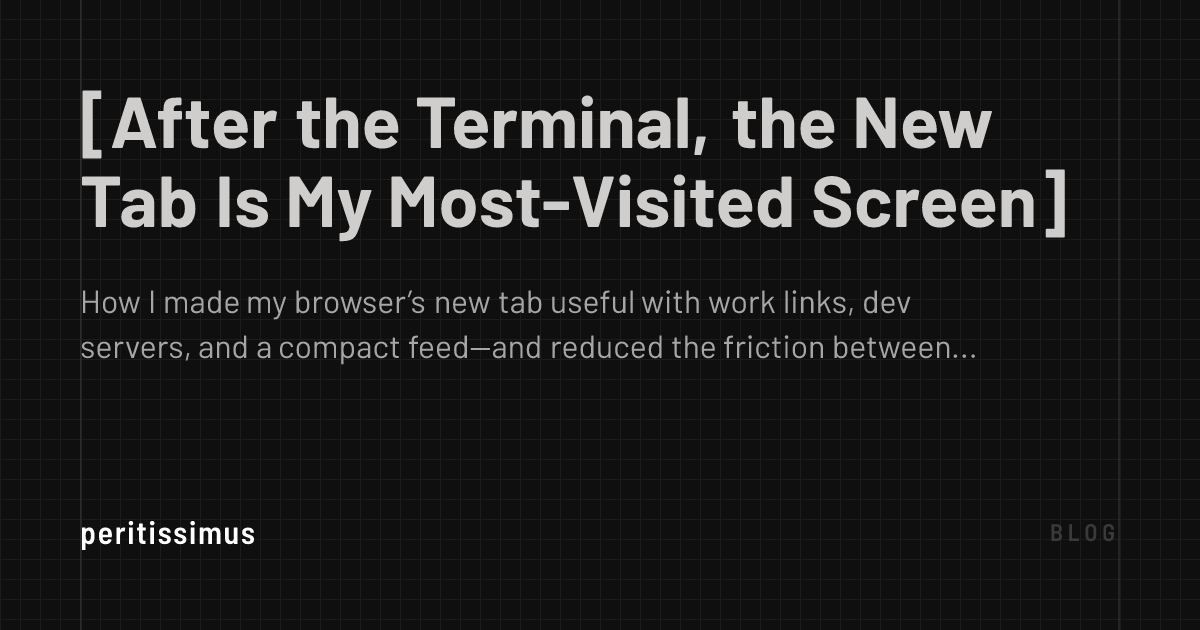
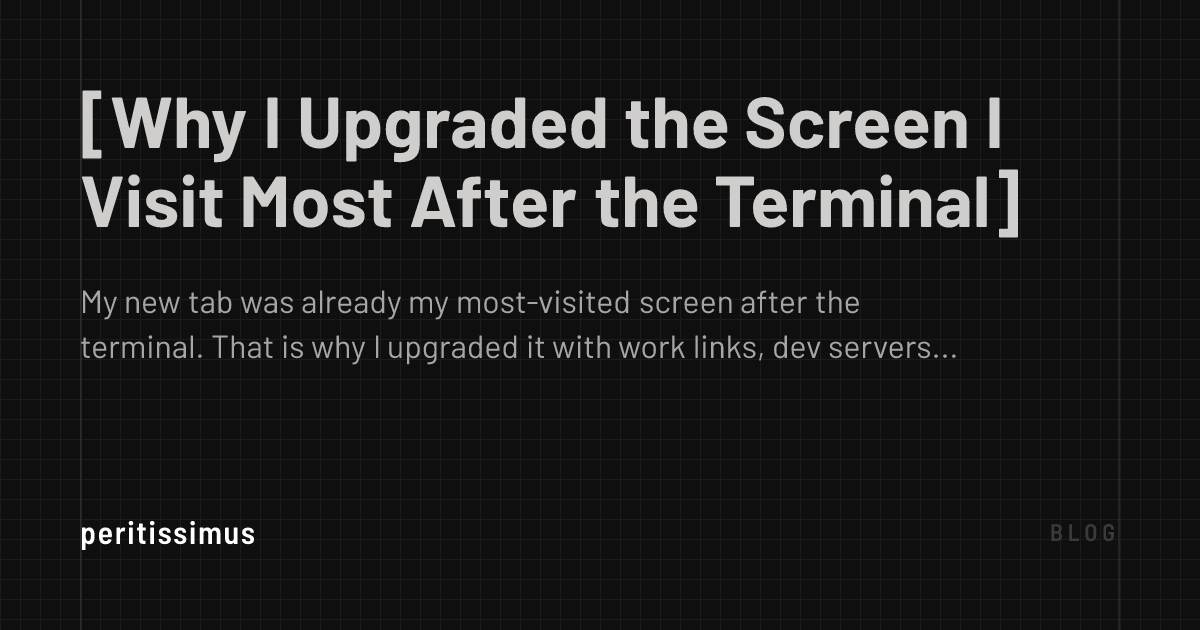
Clarify existing new-tab habit motivated the upgrade

Changed region(s): [[0.0617, 0.1508, 0.8942, 0.3921], [0.0617, 0.4524, 0.8017, 0.573]]

diff --git a/src/content/blog/new-tab-productivity.md b/src/content/blog/new-tab-productivity.md
@@ -1,16 +1,16 @@
 ---
-title: 'After the Terminal, the New Tab Is My Most-Visited Screen'
+title: 'Why I Upgraded the Screen I Visit Most After the Terminal'
 date: 2026-10-13
 author: Kushal Patankar
 category: Personal Software
 tags: [Personal Software, Developer Productivity, Browser Extensions, Tabbit]
-description: How I made my browser’s new tab useful with work links, dev servers, and a compact feed—and reduced the friction between tasks.
+description: My new tab was already my most-visited screen after the terminal. That is why I upgraded it with work links, dev servers, and a compact feed.
 readTime: 5 min read
 ---
 
-After the terminal, the browser’s new tab is the screen I visit most. That is my experience of the working day, not a number from a screen-time report. I open it to find a pull request, return to an internal tool, check a local app, or look something up before going back to code.
+The browser’s new tab was already my most-visited screen after the terminal. That is why I decided to upgrade it. I was opening it throughout the day to find a pull request, return to an internal tool, check a local app, or look something up before going back to code.
 
-For a screen I encounter so often, I had given very little thought to what should be on it.
+The habit was already there. I wanted the screen to serve that habit better: put useful things within reach whenever I arrived, then help me get on with the task.
 
 Most of my attention went into the terminal: the commands, shortcuts, and small adjustments that make repeated work easier. The new tab was just the space before the next URL. Eventually, that felt like a missed opportunity. It was already part of my routine. I could make it useful without creating another place I had to remember to visit.
 

diff --git a/src/content/work/tabbit.md b/src/content/work/tabbit.md
@@ -43,4 +43,4 @@ Tabbit began as a way to tidy a crowded tab bar. It has grown into the page I wa
 
 **Keep the implementation small enough to understand.** The extension runs plain Manifest V3 JavaScript without a framework or runtime bundling step. Provider transport, page readers, storage, build lifecycle and feature workflows are separate modules; the new-tab views have their own controllers. Shared contracts, incremental type checking and regression tests cover the boundaries that matter, including persistent builds, native CLI failures and tabs disappearing during organization. Browser fixture checks verify the interface separately from live extension behavior.
 
-I wrote more about the motivation in [After the Terminal, the New Tab Is My Most-Visited Screen](/blog/new-tab-productivity): why the space between browser tasks deserves as much care as the tools inside them.
+I wrote more about the motivation in [Why I Upgraded the Screen I Visit Most After the Terminal](/blog/new-tab-productivity): why the space between browser tasks deserves as much care as the tools inside them.
